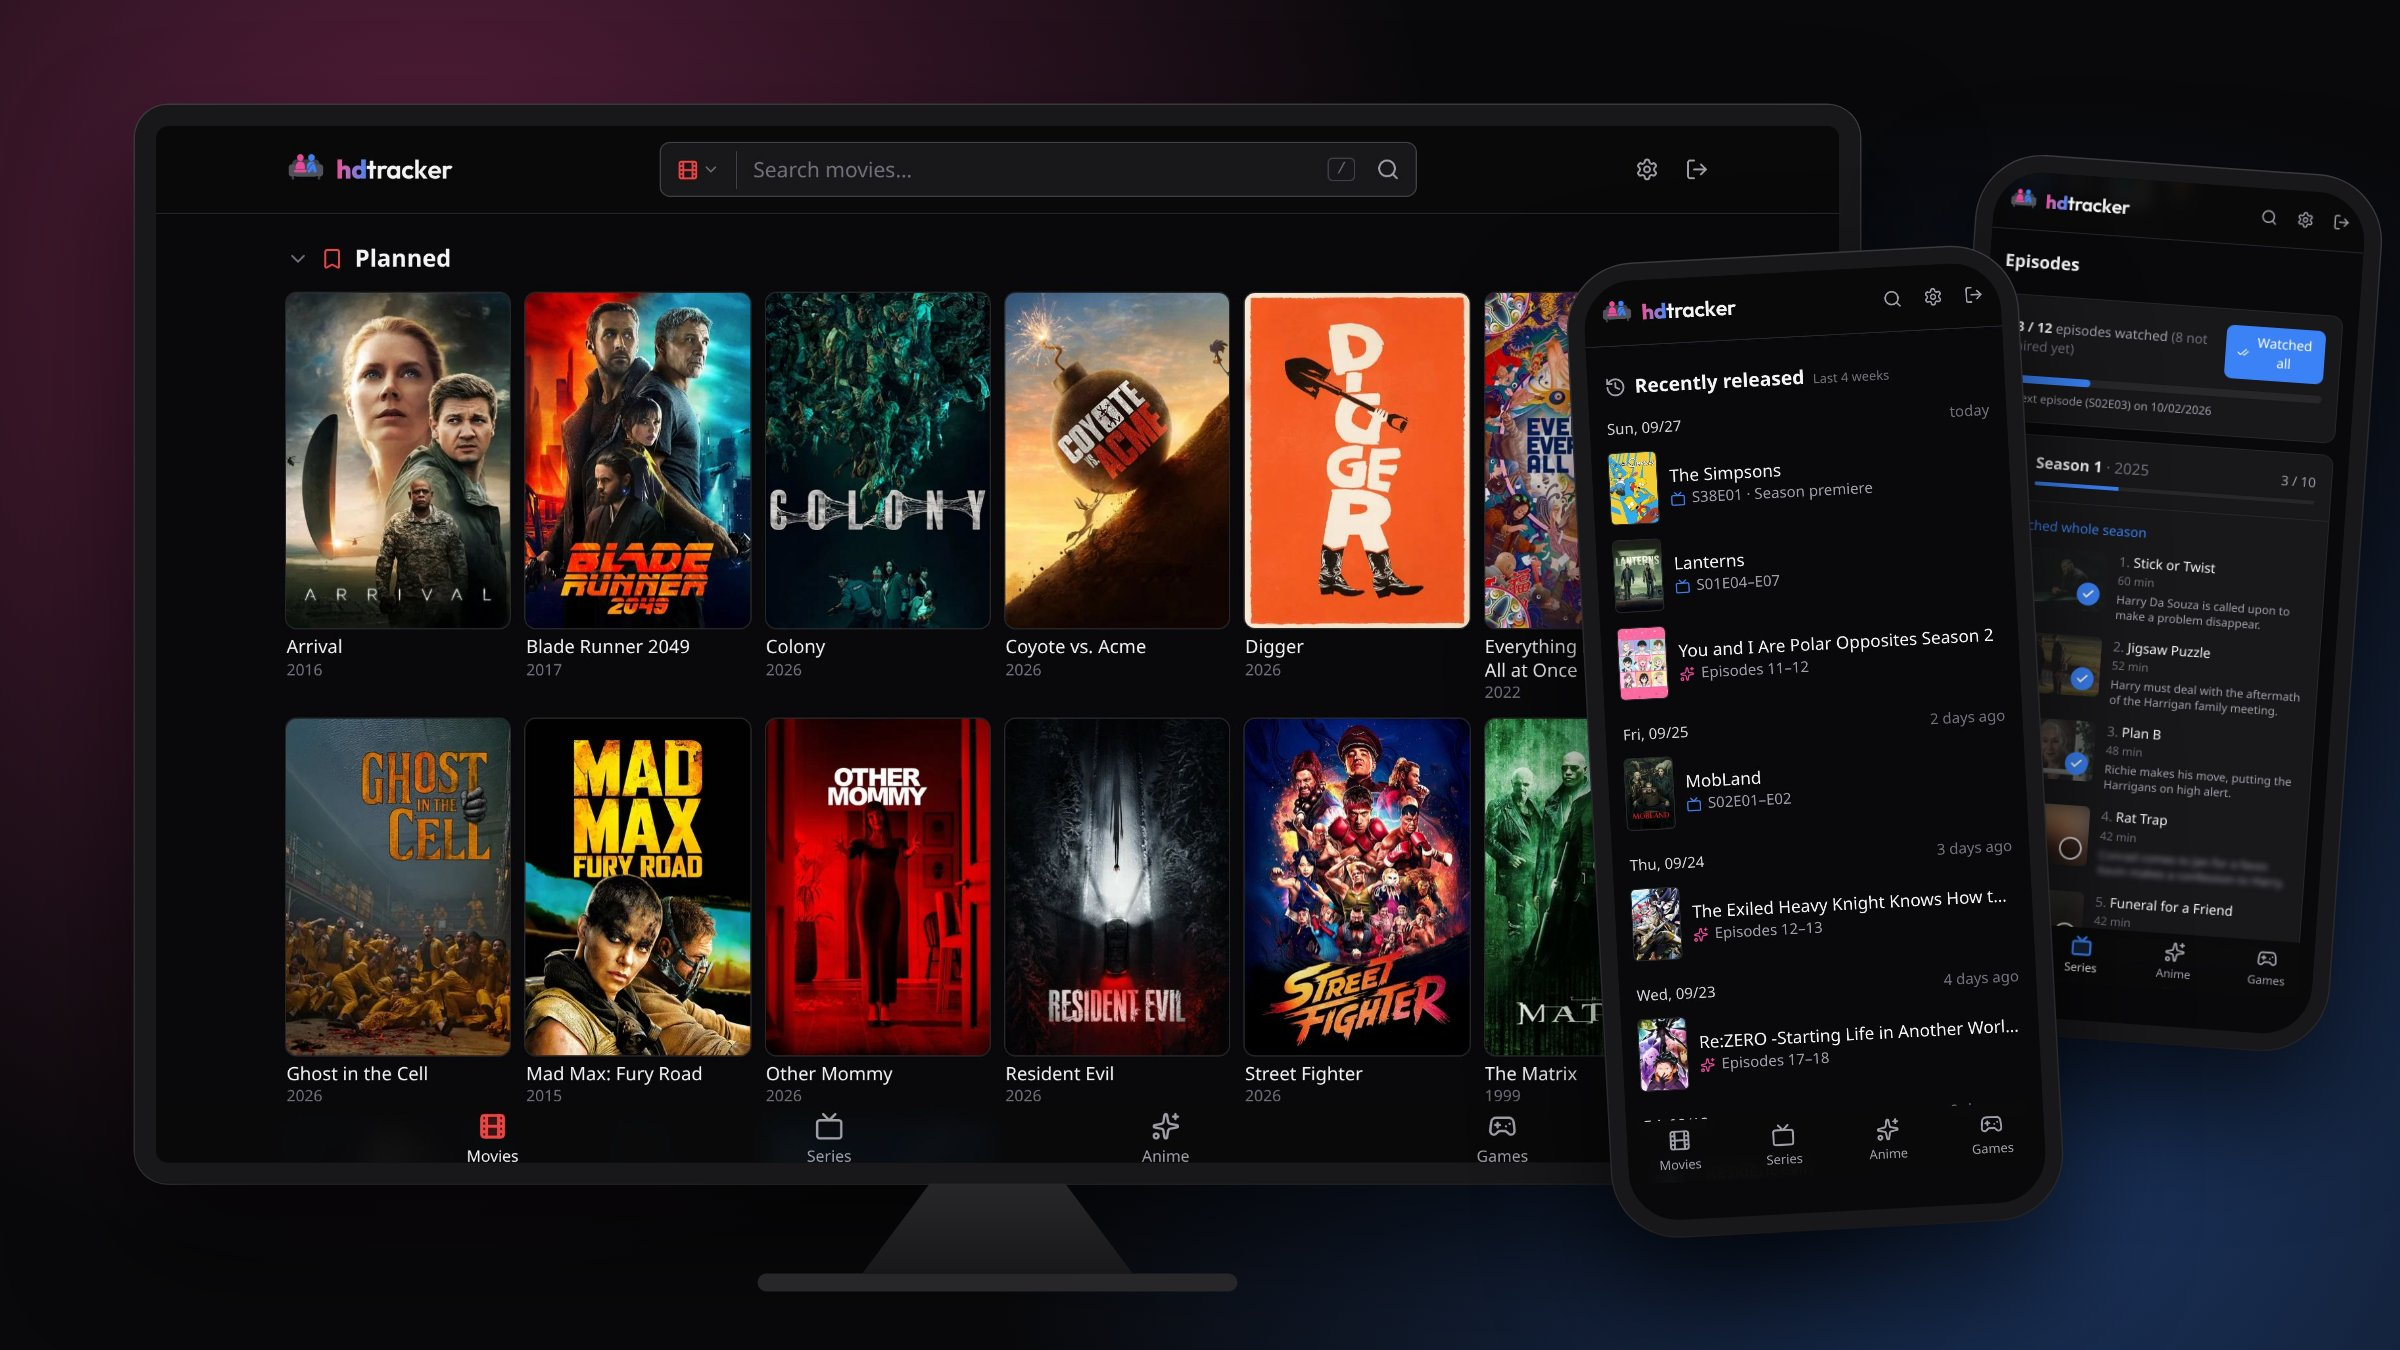
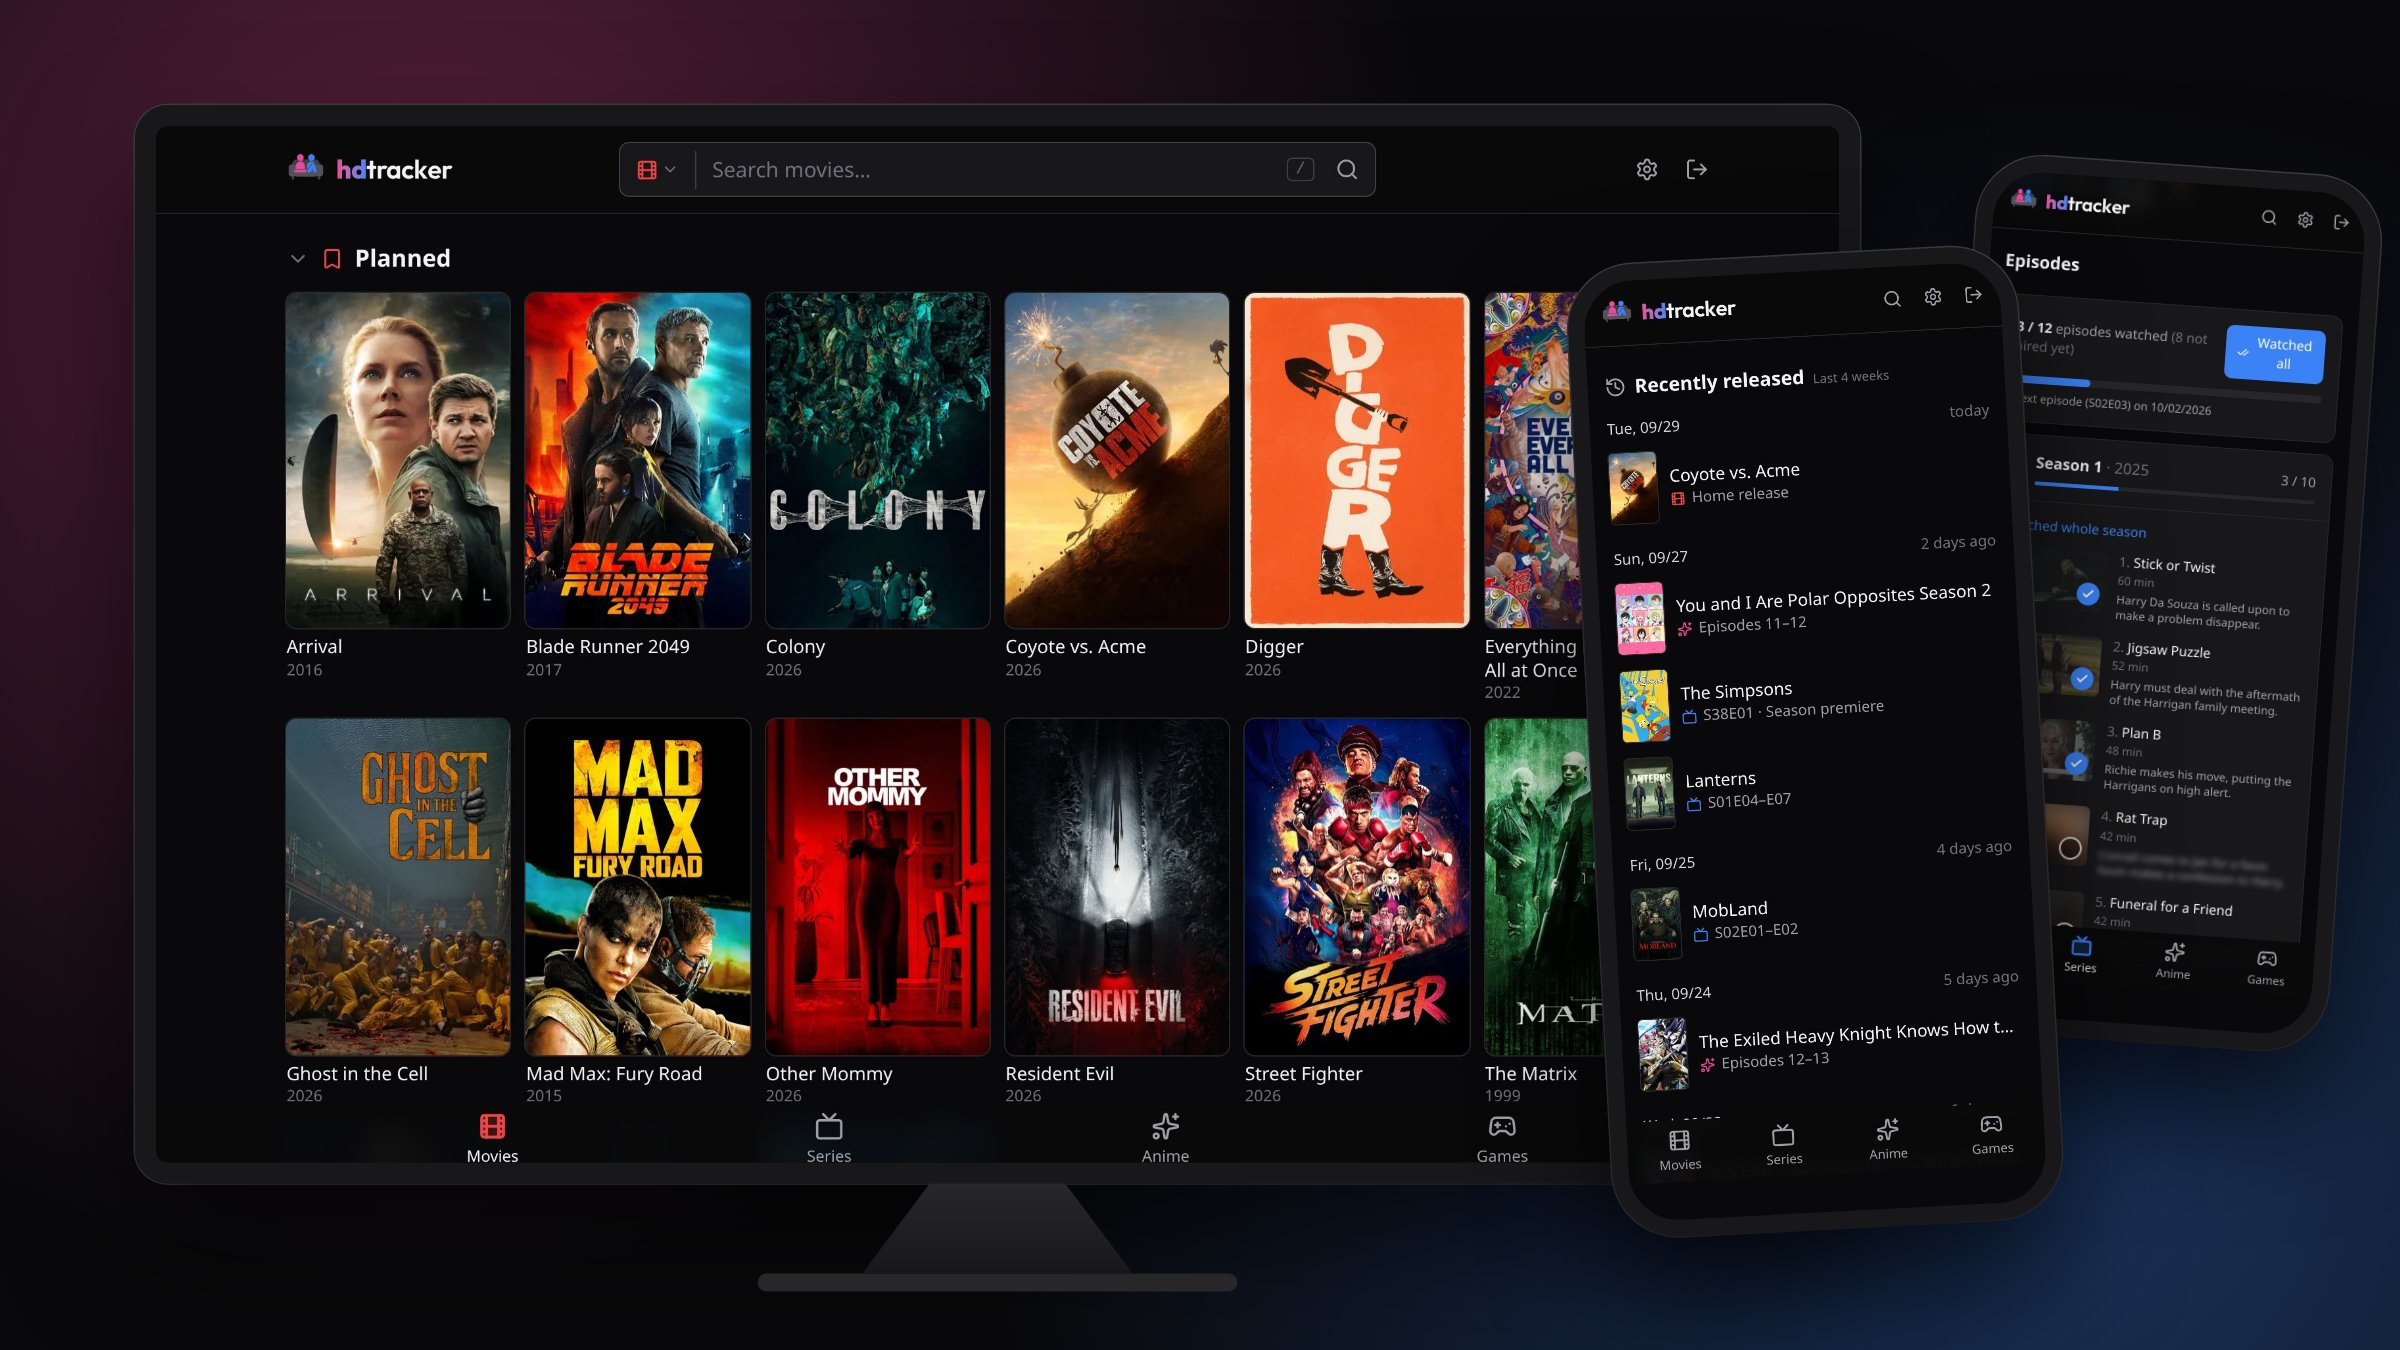
README: new screenshots, hidden areas, quick search, import notes

Changed region(s): [[0.6562, 0.3111, 0.8438, 0.8089], [0.25, 0.1244, 0.375, 0.1556], [0.5625, 0.1244, 0.5938, 0.1556]]

diff --git a/README.md b/README.md
@@ -11,8 +11,7 @@
 </p>
 
 <p align="center">
-  Self-hosted tracker for <b>movies</b>, <b>series</b>, <b>anime</b> and <b>games</b> – made for watching together on the couch.<br />
-  Mobile-first, always dark, one Docker container. Interface in English or German.
+  Self-hosted tracker for <b>movies</b>, <b>series</b>, <b>anime</b> and <b>games</b> – made for watching together on the couch.
 </p>
 
 <p align="center">
@@ -34,12 +33,13 @@
 
 ## ✨ Features
 
-- 🎬 **Four separate areas** – movies, series, anime and games, each with its own search and a library grouped by status (watching, paused, planned, completed, dropped).
+- 🎬 **Four separate areas** – movies, series, anime and games, each with a library grouped by status (watching, paused, planned, completed, dropped). Don't track games or anime? Hide the areas you don't need.
 - 📅 **Dashboard** – what was released recently and what is coming up: new episodes, new seasons, cinema and home releases, game releases.
 - 📺 **Episode tracking** – tick off single episodes, whole seasons or entire shows; see upcoming episodes and announced seasons with dates.
 - 🙈 **Spoiler protection** – images and descriptions of episodes you have not watched yet are blurred (can be switched off).
 - 🍿 **Where to watch** – streaming, rent and buy offers for your region (via JustWatch), with direct links where possible.
-- 🔎 **Detail pages** – runtime, genres, rating, release dates and similar titles.
+- 🔎 **Quick search** – always at the top of the screen; on a computer, press <kbd>/</kbd> to start typing.
+- 📄 **Detail pages** – runtime, genres, rating, release dates and similar titles.
 - 📥 **Import from Yamtrack** – take over your library including statuses, watched episodes and anime progress.
 - 🛠 **Maintenance built in** – release dates refresh nightly; optional scheduled database backups you can download.
 - 📲 **Installable as an app** – add it to your home screen (Chrome, Edge, Safari) and it opens full screen with its own icon.
@@ -114,14 +114,15 @@
 
 ## 📥 Import from Yamtrack
 
-Coming from [Yamtrack](https://github.com/FuzzyGrim/Yamtrack)? Export your library there as CSV and upload it under **Settings → Import**.
+Coming from [Yamtrack](https://github.com/FuzzyGrim/Yamtrack)? Export your library there as CSV and upload it under **Settings → Data**.
 
 - Movies, series, anime and games are taken over with their status and dates.
 - Series keep every watched episode, anime their progress (MyAnimeList IDs are matched via AniList).
 - Titles already in your library are left unchanged, so importing twice is safe.
 - Entries created by hand in Yamtrack have no database ID and are listed as skipped.
+- If the file contains titles of areas you have hidden, you are asked whether to skip them, import them anyway or show the area again.
 
-Posters, descriptions and release dates are loaded in the background afterwards.
+Posters, descriptions and release dates are loaded in the background afterwards – the import page shows how many are left, and loading continues even if the container restarts in between.
 
 ## 💾 Backups
 
